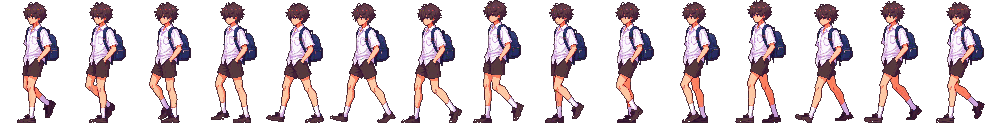
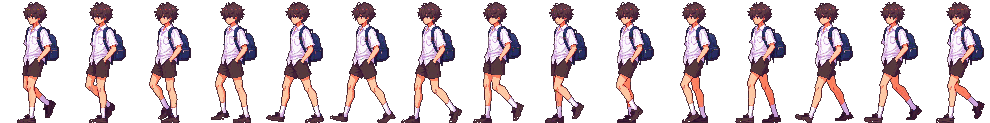
Walk: keep the head and shoulders at one height (no bounce after steps)
Frames 7 and 11 had the upper body 2-3px higher than their neighbours, so the
hero popped up right after each step. tools/steady_walk_head.py measures each
frame's head/chest offset from the median and moves only the band above the
plain middle of the shirt; legs and feet are untouched.

Claude-Session: https://claude.ai/code/session_011NAKRUA9btL4iodwTEM3Dh

diff --git a/tools/steady_walk_head.py b/tools/steady_walk_head.py
@@ -1,0 +1,76 @@
+"""Keep the head and shoulders of a walk sheet at one height in every frame.
+
+The walk video's upper body pops up 2-3px in single frames (right after a step), so
+in game the character looked like it bounced. For each frame this finds how far its
+head and chest (rows 4..60) sit from the median of all frames, then moves only the
+band above a cut in the plain middle of the shirt by that much: moving down hides
+a few shirt rows at the cut, moving up repeats them. The cut is the run of rows
+that looks most like its neighbours, so the seam doesn't show; legs, feet and the
+ground line are untouched.
+
+Usage:
+  python3 tools/steady_walk_head.py assets/characters/hero_walk.png --frames 15
+"""
+import argparse
+
+import numpy as np
+from PIL import Image
+
+
+def offset(ref, f, y0=4, y1=60, reach=5):
+    """Rows (dy) and columns (dx) to move f by so its head and chest match ref."""
+    best = None
+    for dy in range(-reach, reach + 1):
+        for dx in range(-3, 4):
+            g = np.roll(np.roll(f, dy, 0), dx, 1)
+            err = np.abs(ref[y0:y1] - g[y0:y1]).mean()
+            if best is None or err < best[0]:
+                best = (err, dy, dx)
+    return best[1]
+
+
+def cut_row(f, lo, hi, n):
+    """Start of the n rows in lo..hi whose loss/doubling is least visible."""
+    cost = []
+    for y in range(lo, hi - n):
+        cost.append(sum(np.abs(f[y + k, :, :3] - f[y + k - 1, :, :3]).sum()
+                        + 400 * np.abs(f[y + k, :, 3] - f[y + k - 1, :, 3]).sum() / 255
+                        for k in range(max(1, n))))
+    return lo + int(np.argmin(cost))
+
+
+def steady(f, dy, lo, hi):
+    if dy == 0:
+        return f
+    # the hidden rows (moving down) start at the cut; the repeated ones (moving up) end there
+    cut = cut_row(f, lo, hi, abs(dy)) + (abs(dy) if dy < 0 else 0)
+    out = f.copy()
+    if dy > 0:                     # upper band down: rows cut..cut+dy of the lower part hidden
+        out[dy:cut + dy] = f[:cut]
+        out[:dy] = 0
+    else:                          # upper band up: rows at the cut appear twice
+        out[:cut + dy] = f[-dy:cut]
+    return out
+
+
+def main():
+    ap = argparse.ArgumentParser()
+    ap.add_argument("sheet")
+    ap.add_argument("--frames", type=int, required=True)
+    ap.add_argument("--cut", type=int, nargs=2, default=(38, 62), metavar=("FROM", "TO"),
+                    help="shirt rows to cut in (below the chest, above the hem)")
+    ap.add_argument("--out", help="default: overwrite the sheet")
+    args = ap.parse_args()
+
+    a = np.asarray(Image.open(args.sheet).convert("RGBA")).astype(int)
+    w = a.shape[1] // args.frames
+    frames = [a[:, i * w:(i + 1) * w] for i in range(args.frames)]
+    ref = np.median(np.stack(frames), 0)
+    shifts = [offset(ref, f) for f in frames]
+    print("upper body moved by", shifts)
+    out = np.concatenate([steady(f, dy, *args.cut) for f, dy in zip(frames, shifts)], 1)
+    Image.fromarray(out.astype(np.uint8), "RGBA").save(args.out or args.sheet)
+
+
+if __name__ == "__main__":
+    main()

diff --git a/README.md b/README.md
@@ -124,7 +124,12 @@ python3 tools/make_idle_anim.py assets/characters/hero_uniform.png assets/charac
 python3 tools/import_walk_video.py art_source/hero_walk_greenscreen.mp4 assets/characters/hero_walk.png \
     --start 20 --cycle 30 --height 122 --palette assets/characters/hero_uniform.png \
     --frames 15 --shoe-scale 0.8
+python3 tools/steady_walk_head.py assets/characters/hero_walk.png --frames 15
 ```
+
+ขั้นที่สอง: หัวกับไหล่ในวิดีโอเด้งขึ้น 2-3px บางเฟรม (หลังก้าว) ในเกมจึงดูกระเด้ง
+`steady_walk_head.py` วัดว่าช่วงหัว-อกแต่ละเฟรมห่างจากค่ากลางของทุกเฟรมเท่าไร แล้วเลื่อนเฉพาะส่วนบนเหนือกลางเสื้อ
+(ซ่อน/ซ้ำแถวเสื้อเรียบๆ ตรงรอยตัด จึงไม่เห็นรอย) ขา เท้า และแนวพื้นไม่ถูกแตะ
 
 วิดีโอต้องเป็นตัวละครเดินอยู่กับที่ (กล้องนิ่ง) สคริปต์ตัดหนึ่งรอบก้าว (`--cycle` เฟรม) เลือกมา `--frames` เฟรม
 ลบพื้นเขียว แบ่งสีภาพยืน (`--palette`) เป็นกลุ่มวัสดุ (ผม ผิว เสื้อ กางเกง กระเป๋า ...)
